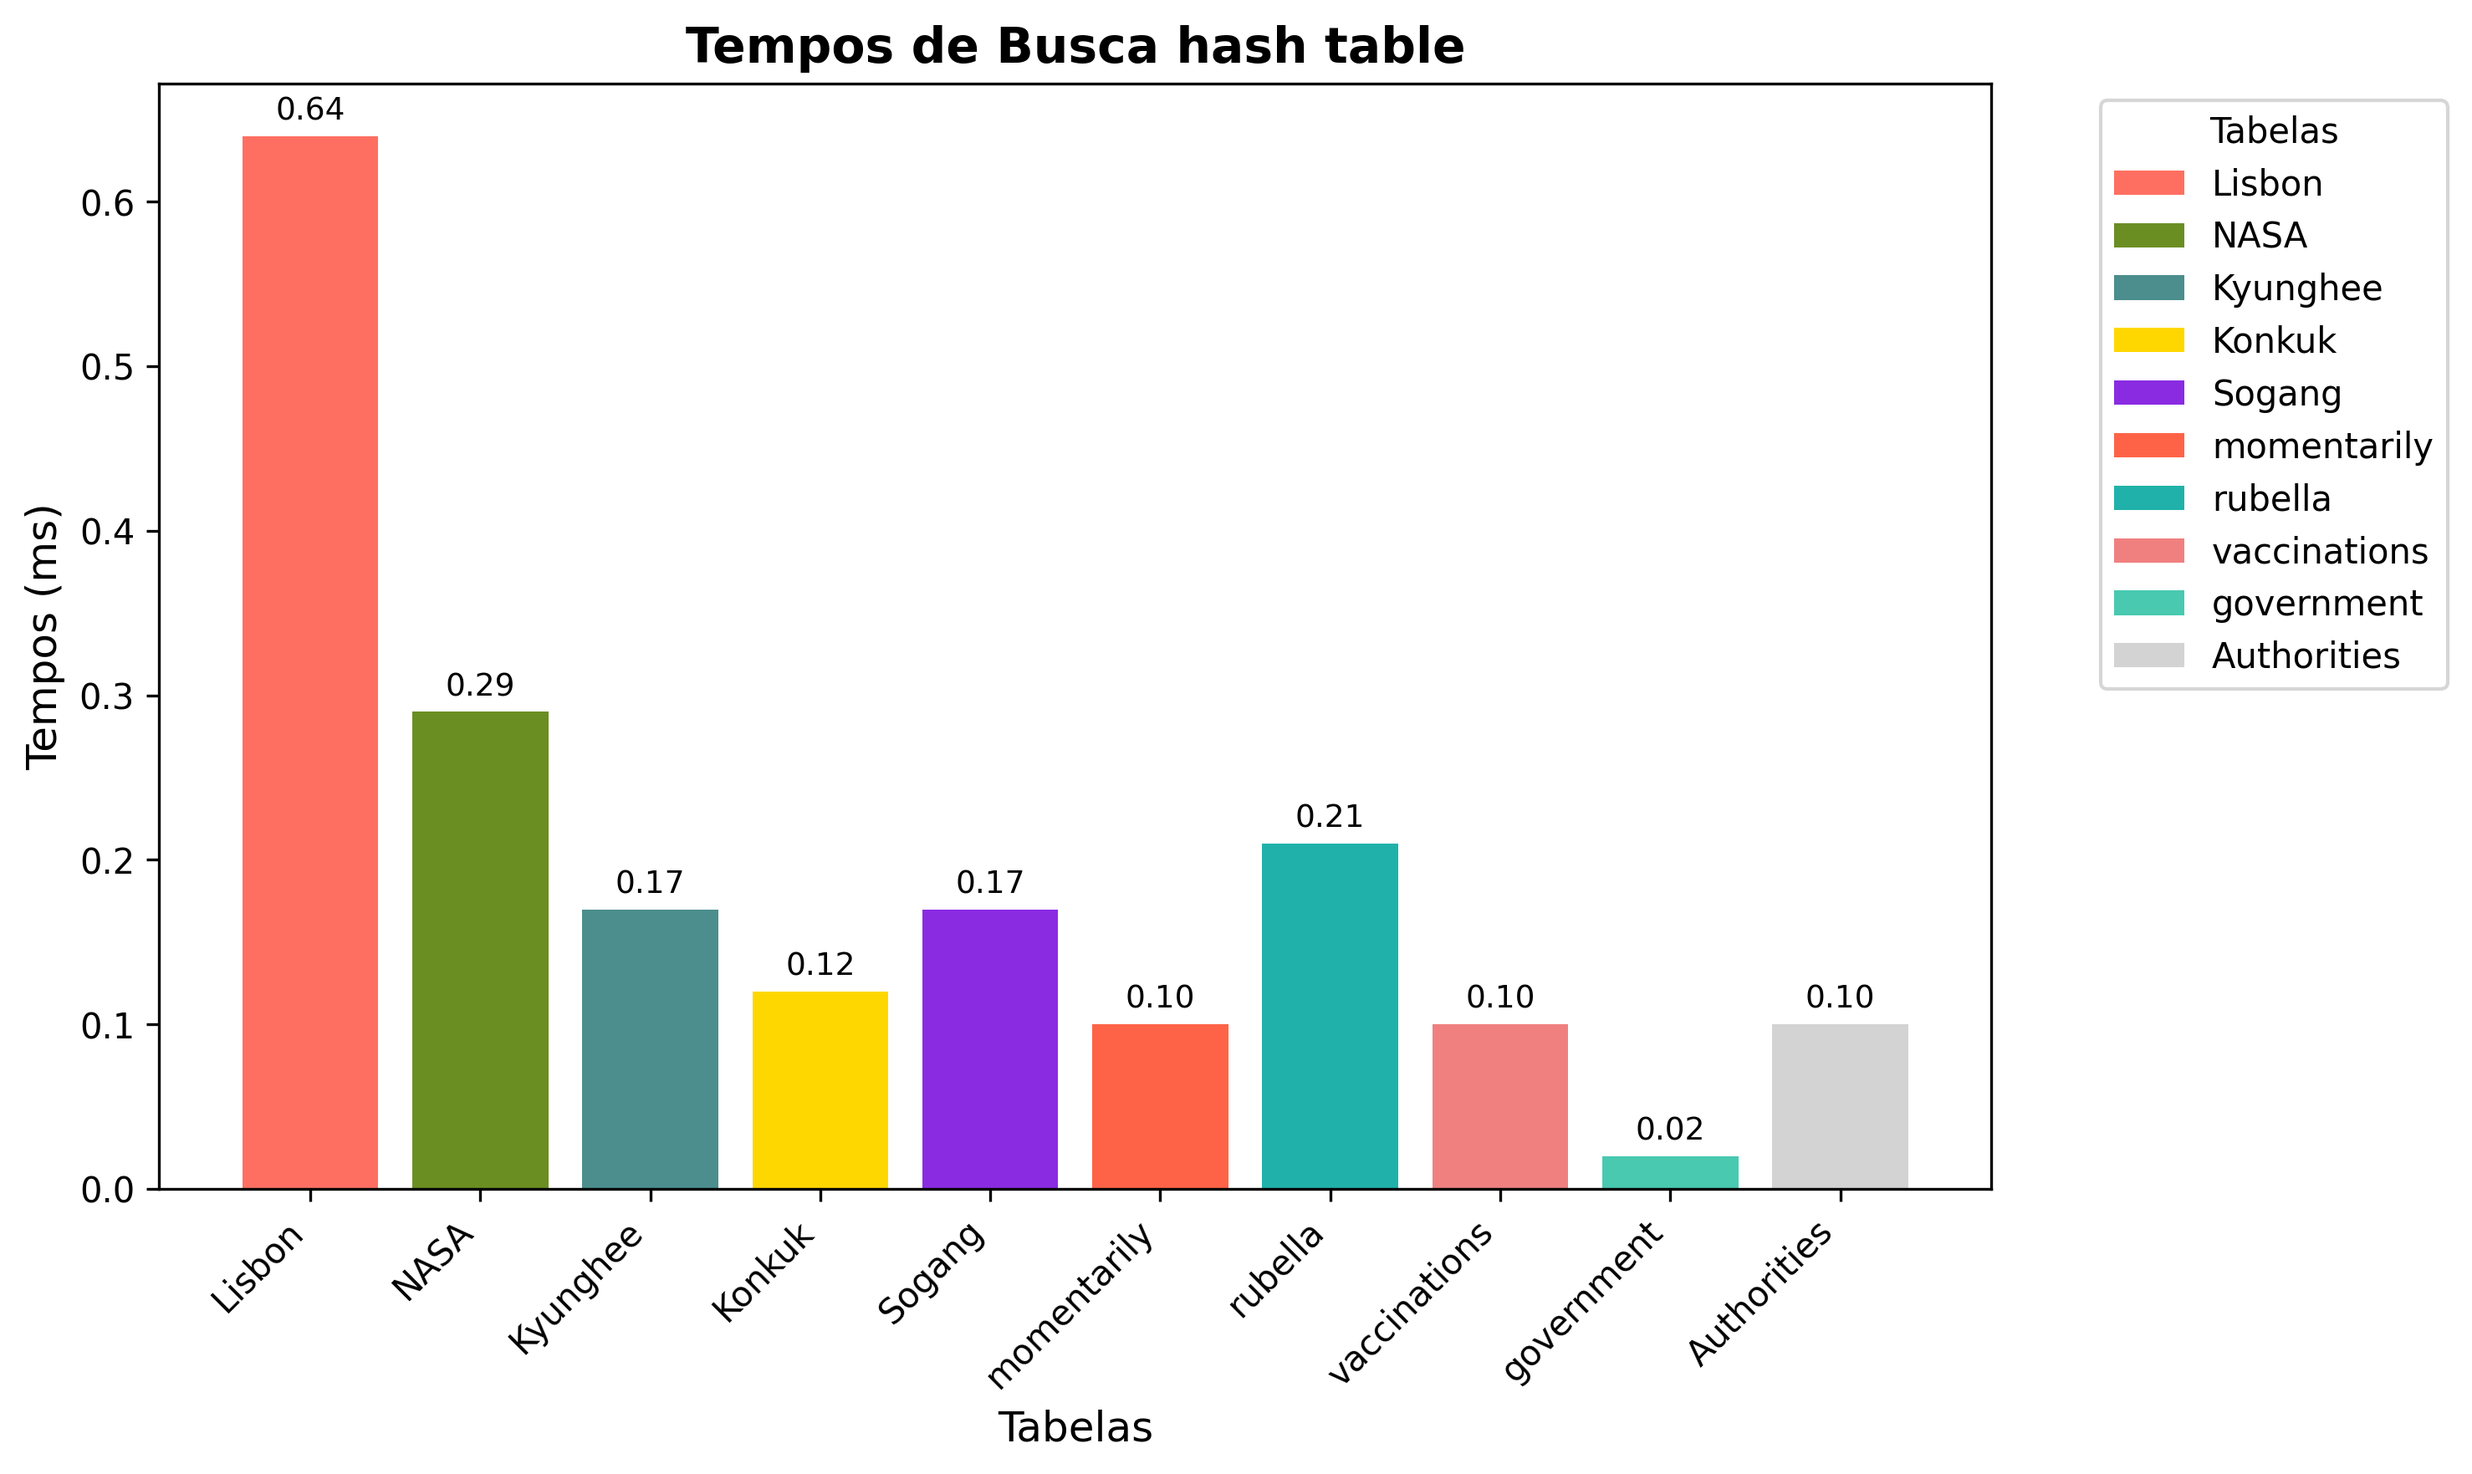
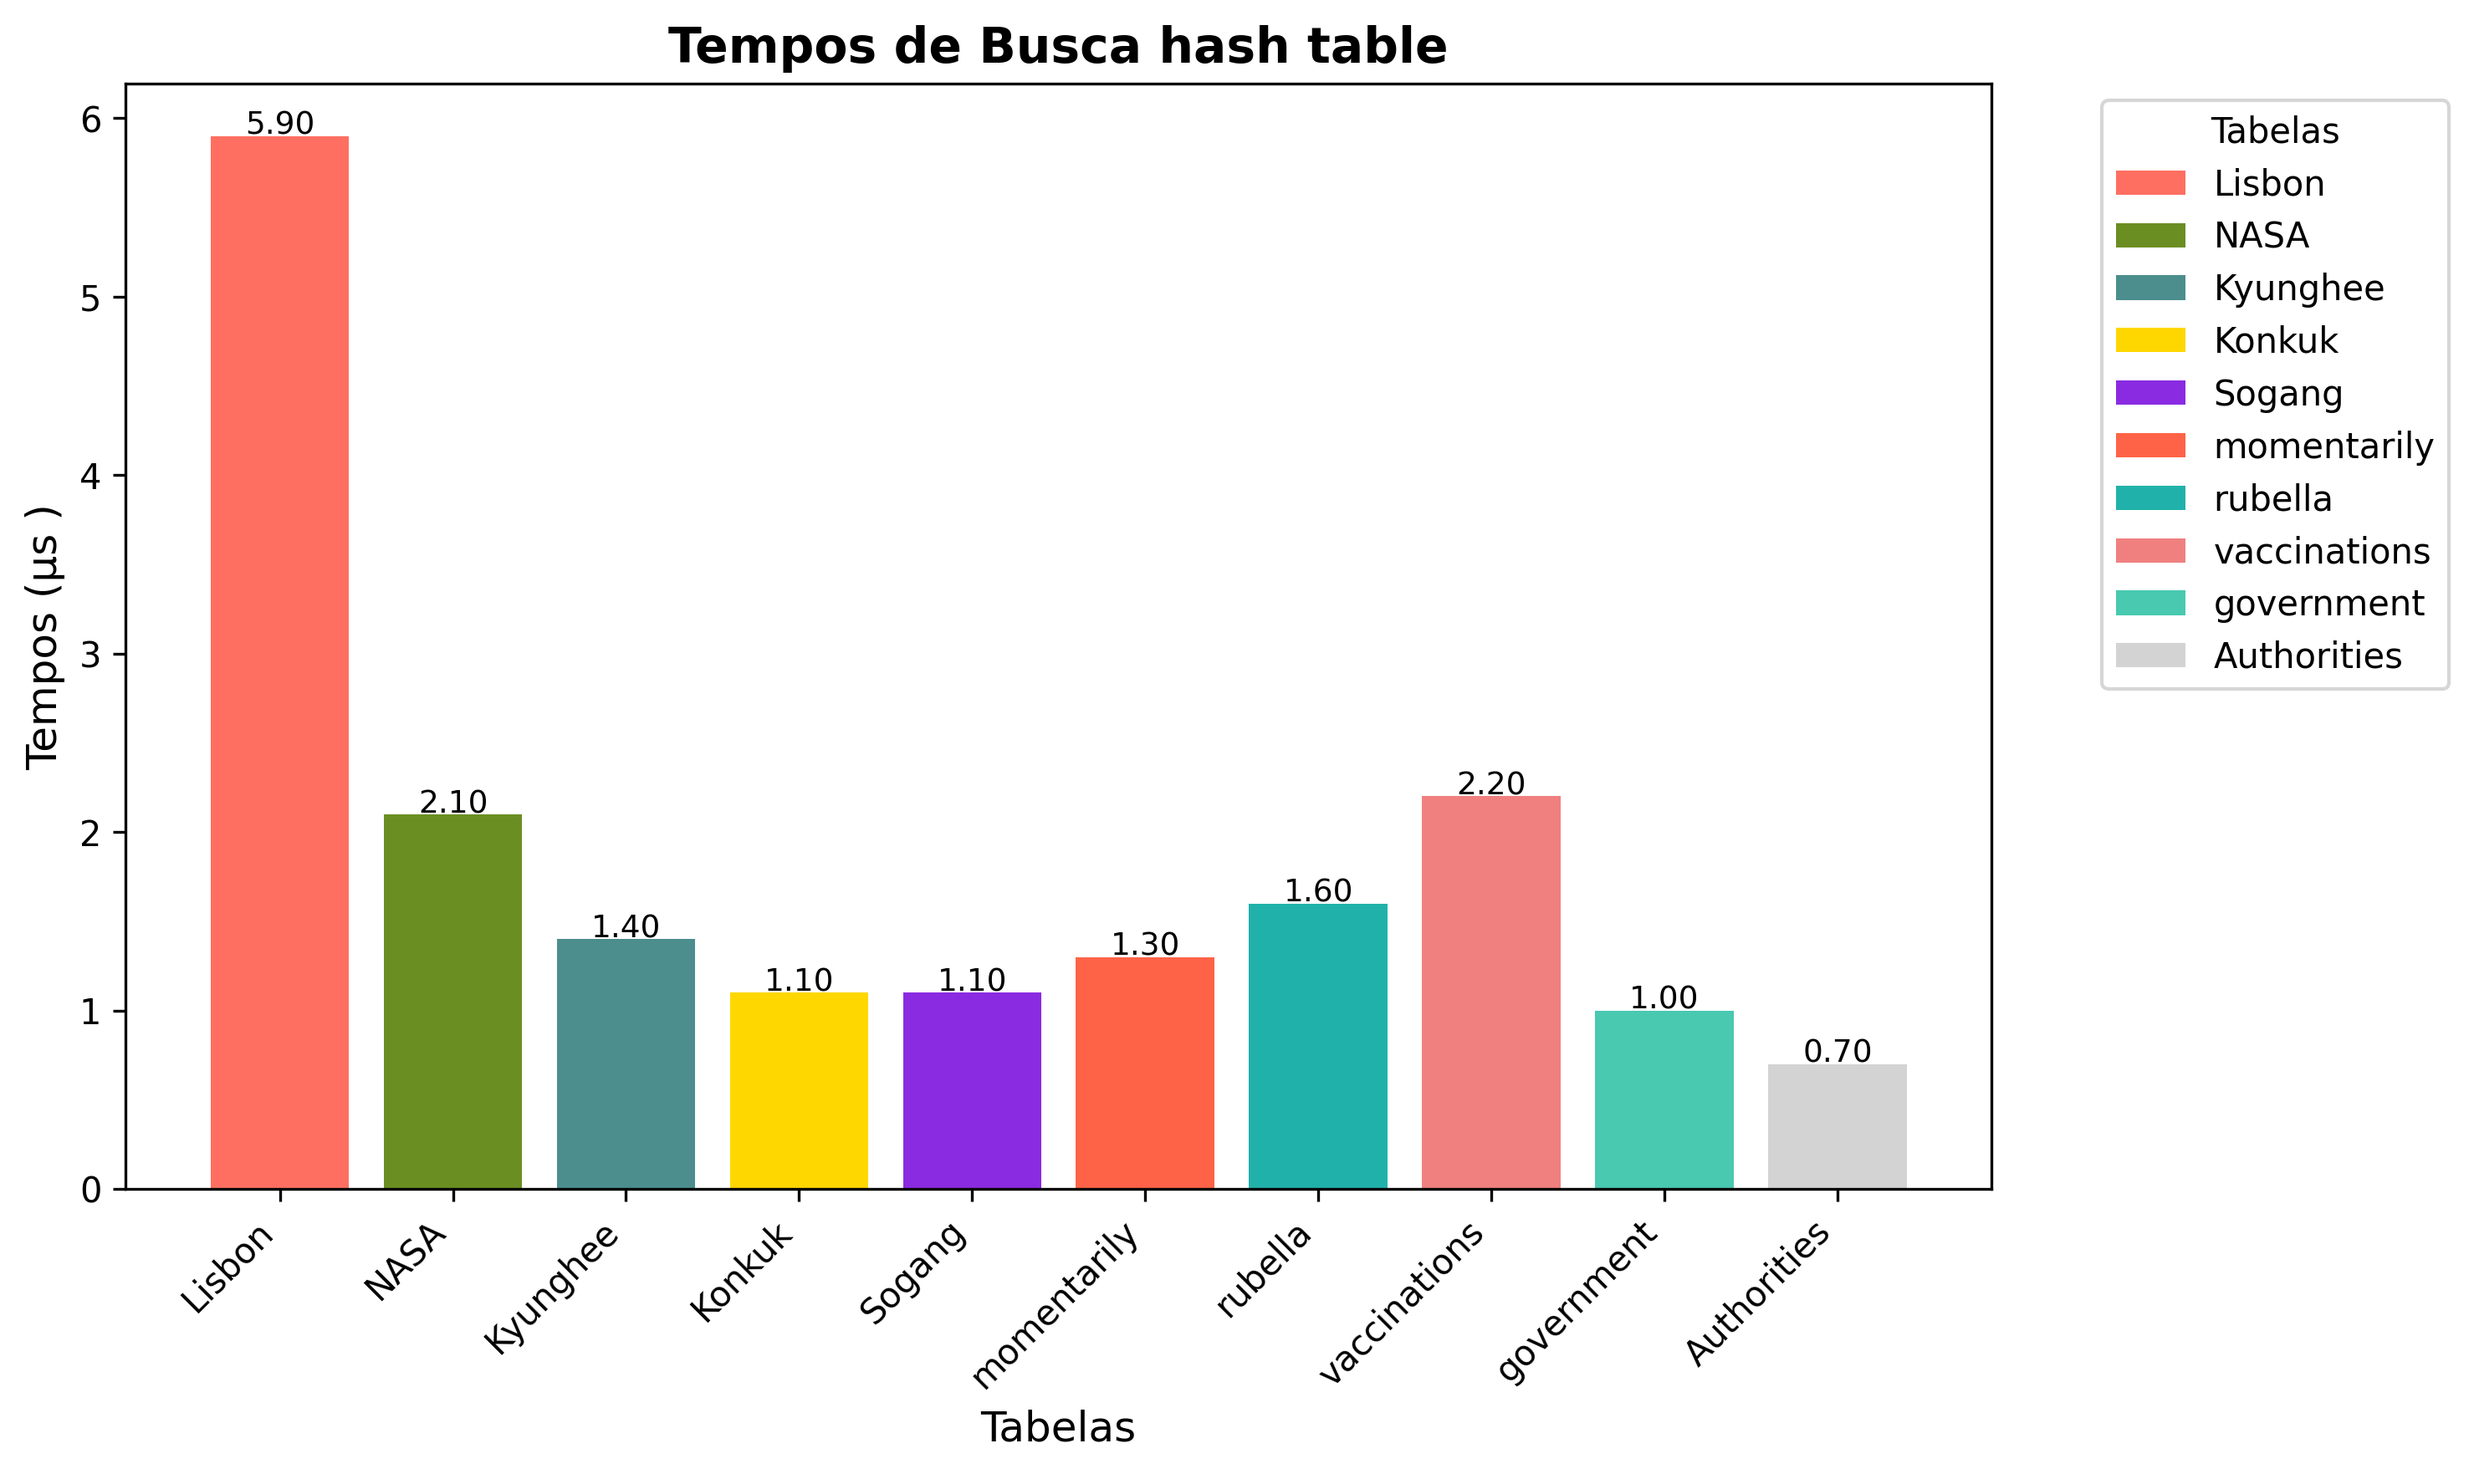
corrigi a escala de tempo

diff --git a/TrabalhoFinal/busca_Leipizig.py b/TrabalhoFinal/busca_Leipizig.py
@@ -1,5 +1,6 @@
 import menu,collections
 import matplotlib.pyplot as plt
+from decimal import Decimal
 
 tempos = list()
 nomes = ["hashTable","Counter","dicionario"]
@@ -34,19 +35,19 @@ palavras = ["Lisbon", "NASA",
 tempos_lista_dict = []
 for i in palavras:
     tempo = menu.busca_lista_dict(tabela_lista_dict, i)
-    tempos_lista_dict.append(tempo[0] * 10e4)
+    tempos_lista_dict.append(tempo[0] * 1e6)
 
 
 tempos_counter = []
 for i in palavras:
     tempo = menu.busca_dict(tabela_counter, i)
-    tempos_counter.append(tempo[0] * 10e4)
+    tempos_counter.append(tempo[0] * 1e6)
 
 tempos_dict = []
 for i in palavras:
     tempo = menu.busca_dict(tabela_dict, i)
-    tempos_dict.append(tempo[0] * 10e4)
+    tempos_dict.append(tempo[0] * 1e6)
 
-menu.costruir_grafico(palavras, tempos_lista_dict,Xlabel='Tabelas',Ylabel='Tempos (ms)',title='Tempos de Busca hash table', save_path= "searchTimesListDict.png",directory= "TrabalhoFinal/tempos") 
-menu.costruir_grafico(palavras, tempos_counter,Xlabel='Tabelas',Ylabel='Tempos (ms)',title='Tempos de Busca counter', save_path= "searchTimesCounter.png",directory= "TrabalhoFinal/tempos") 
-menu.costruir_grafico(palavras, tempos_dict,Xlabel='Tabelas',Ylabel='Tempos (ms)',title='Tempos de Busca dicionario', save_path= "searchTimesDict.png",directory= "TrabalhoFinal/tempos") 
+menu.costruir_grafico(palavras, tempos_lista_dict,Xlabel='Tabelas',Ylabel='Tempos (µs )',title='Tempos de Busca hash table', save_path= "searchTimesListDict.png",directory= "TrabalhoFinal\\tempos") 
+menu.costruir_grafico(palavras, tempos_counter,Xlabel='Tabelas',Ylabel='Tempos (µs )',title='Tempos de Busca counter', save_path= "searchTimesCounter.png",directory= "TrabalhoFinal\\tempos") 
+menu.costruir_grafico(palavras, tempos_dict,Xlabel='Tabelas',Ylabel='Tempos (µs)',title='Tempos de Busca dicionario', save_path= "searchTimesDict.png",directory= "TrabalhoFinal\\tempos") 

diff --git a/TrabalhoFinal/menu.py b/TrabalhoFinal/menu.py
@@ -3,9 +3,9 @@ import matplotlib.pyplot as plt
 
 def conta_tempo(func):
     def wrapper(*args, **kwargs):
-        t1 = time.time()
+        t1 = time.perf_counter()
         result = func(*args,**kwargs)
-        t2 = time.time() - t1
+        t2 = time.perf_counter() - t1
         #print(t2)
         return [t2,result]
     return wrapper
